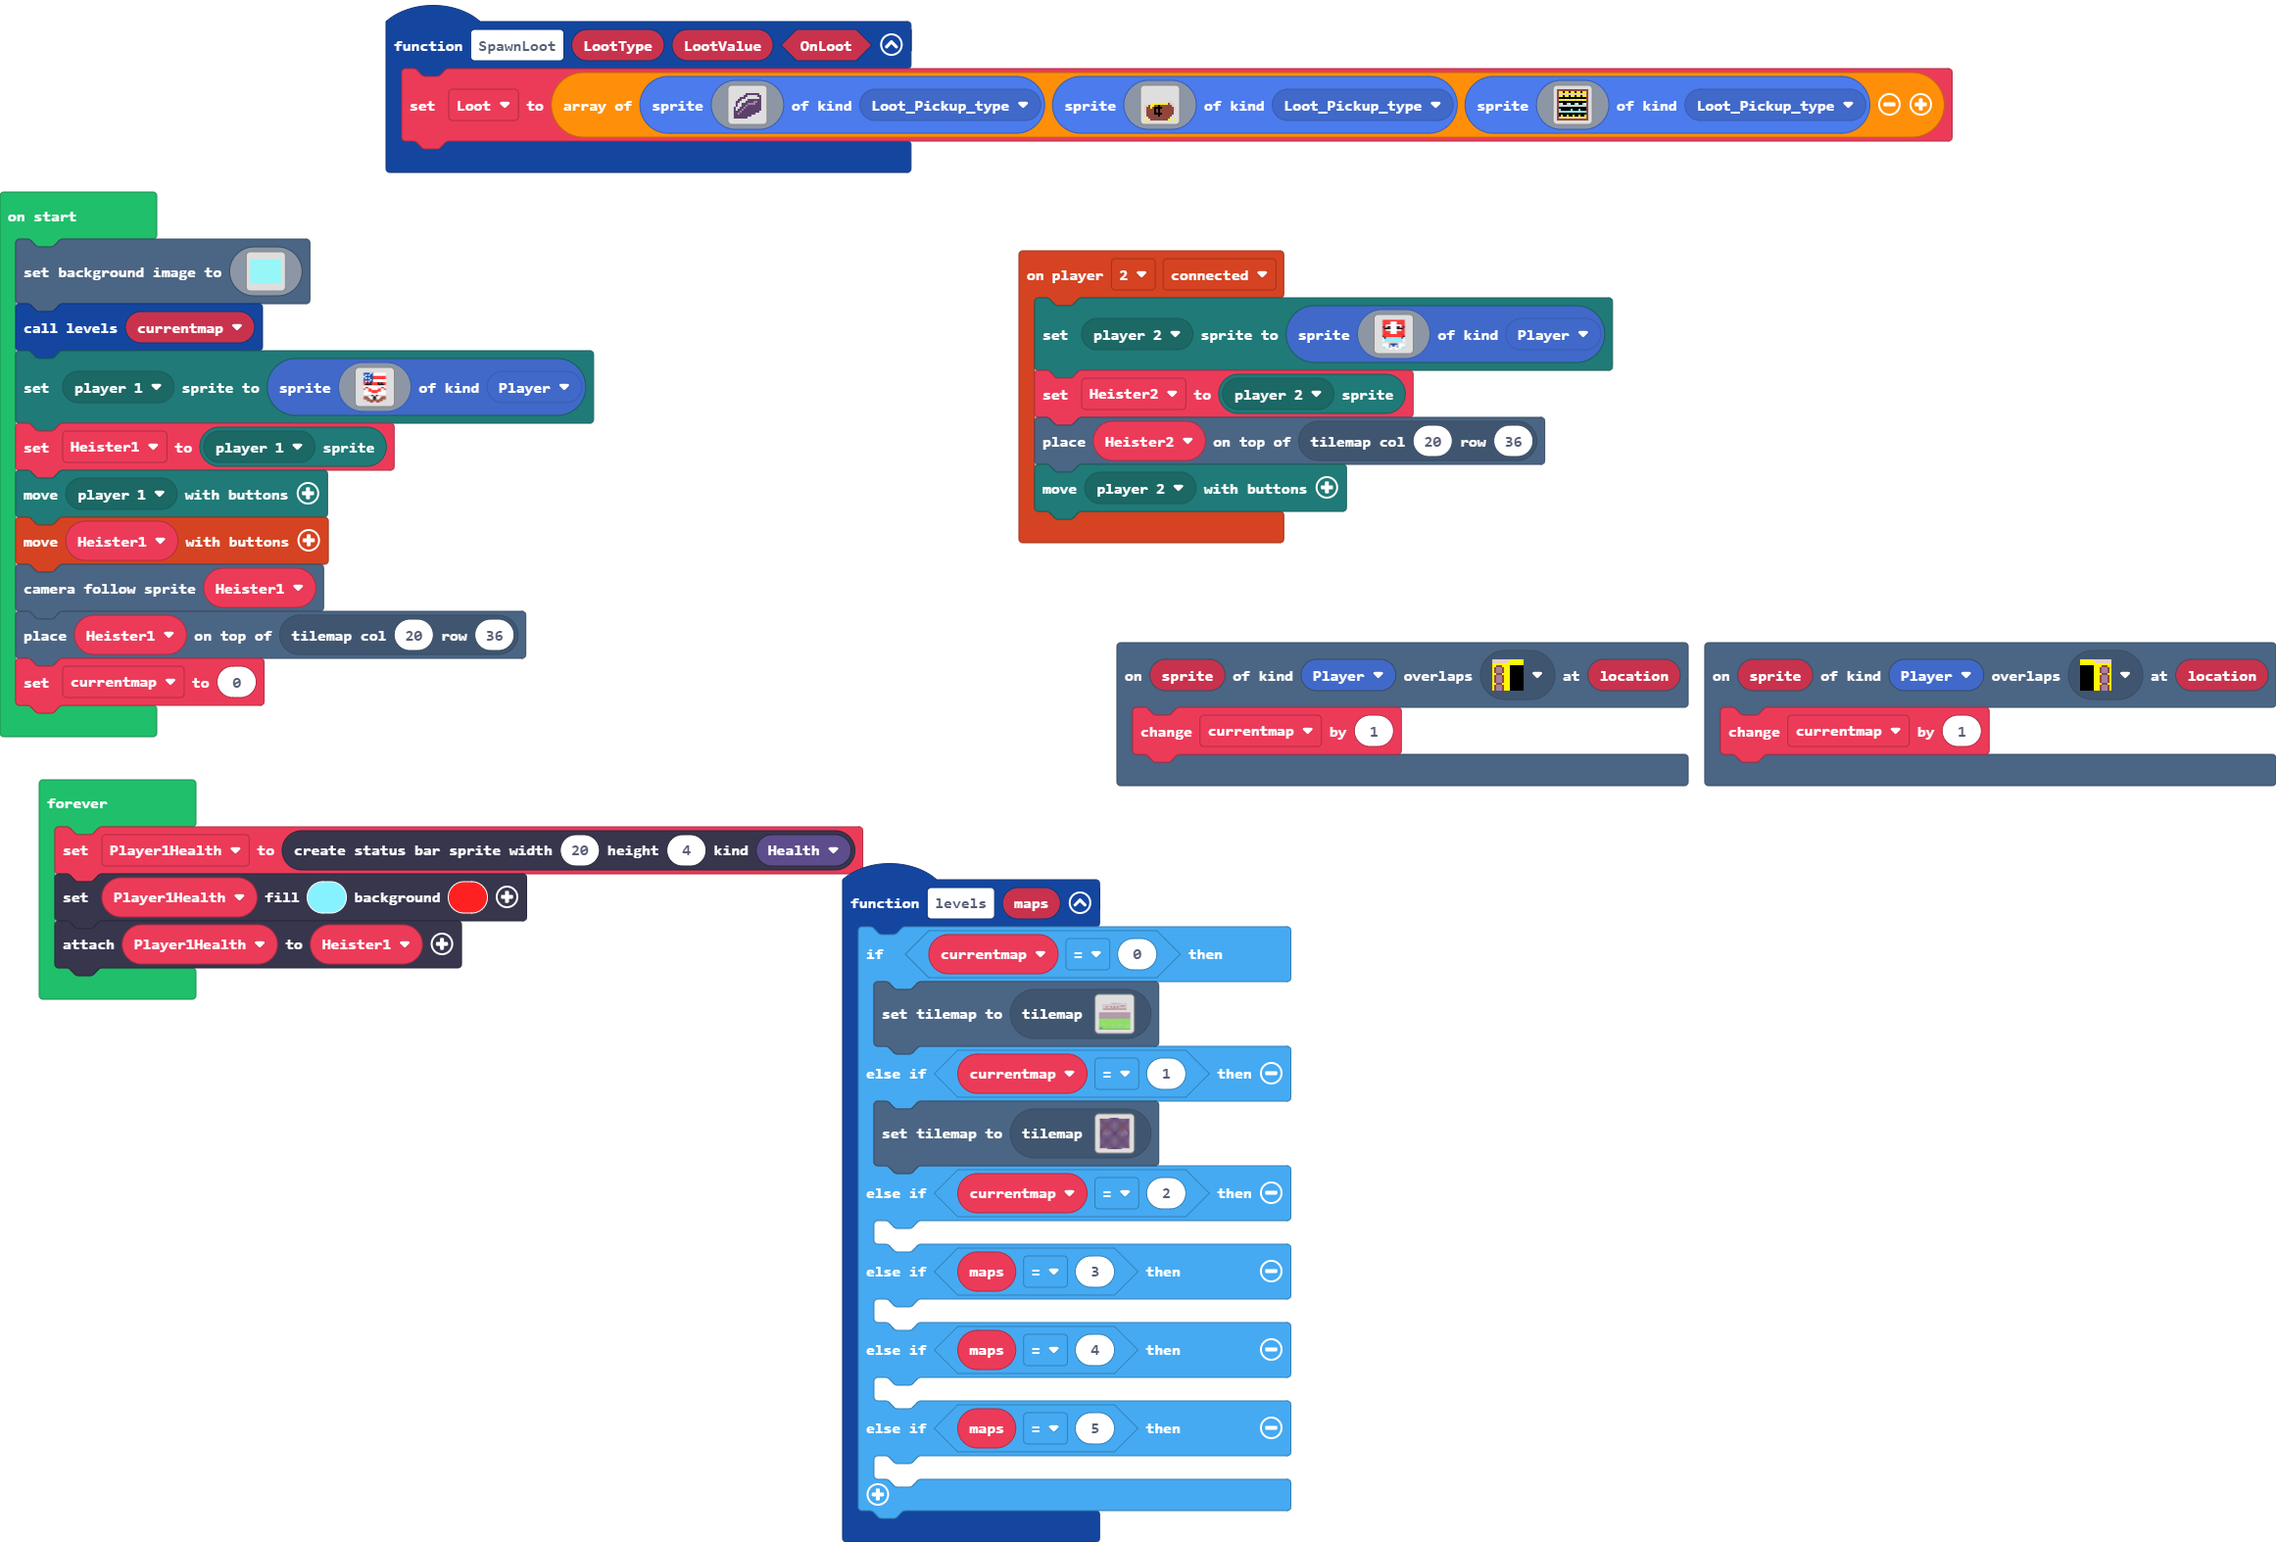
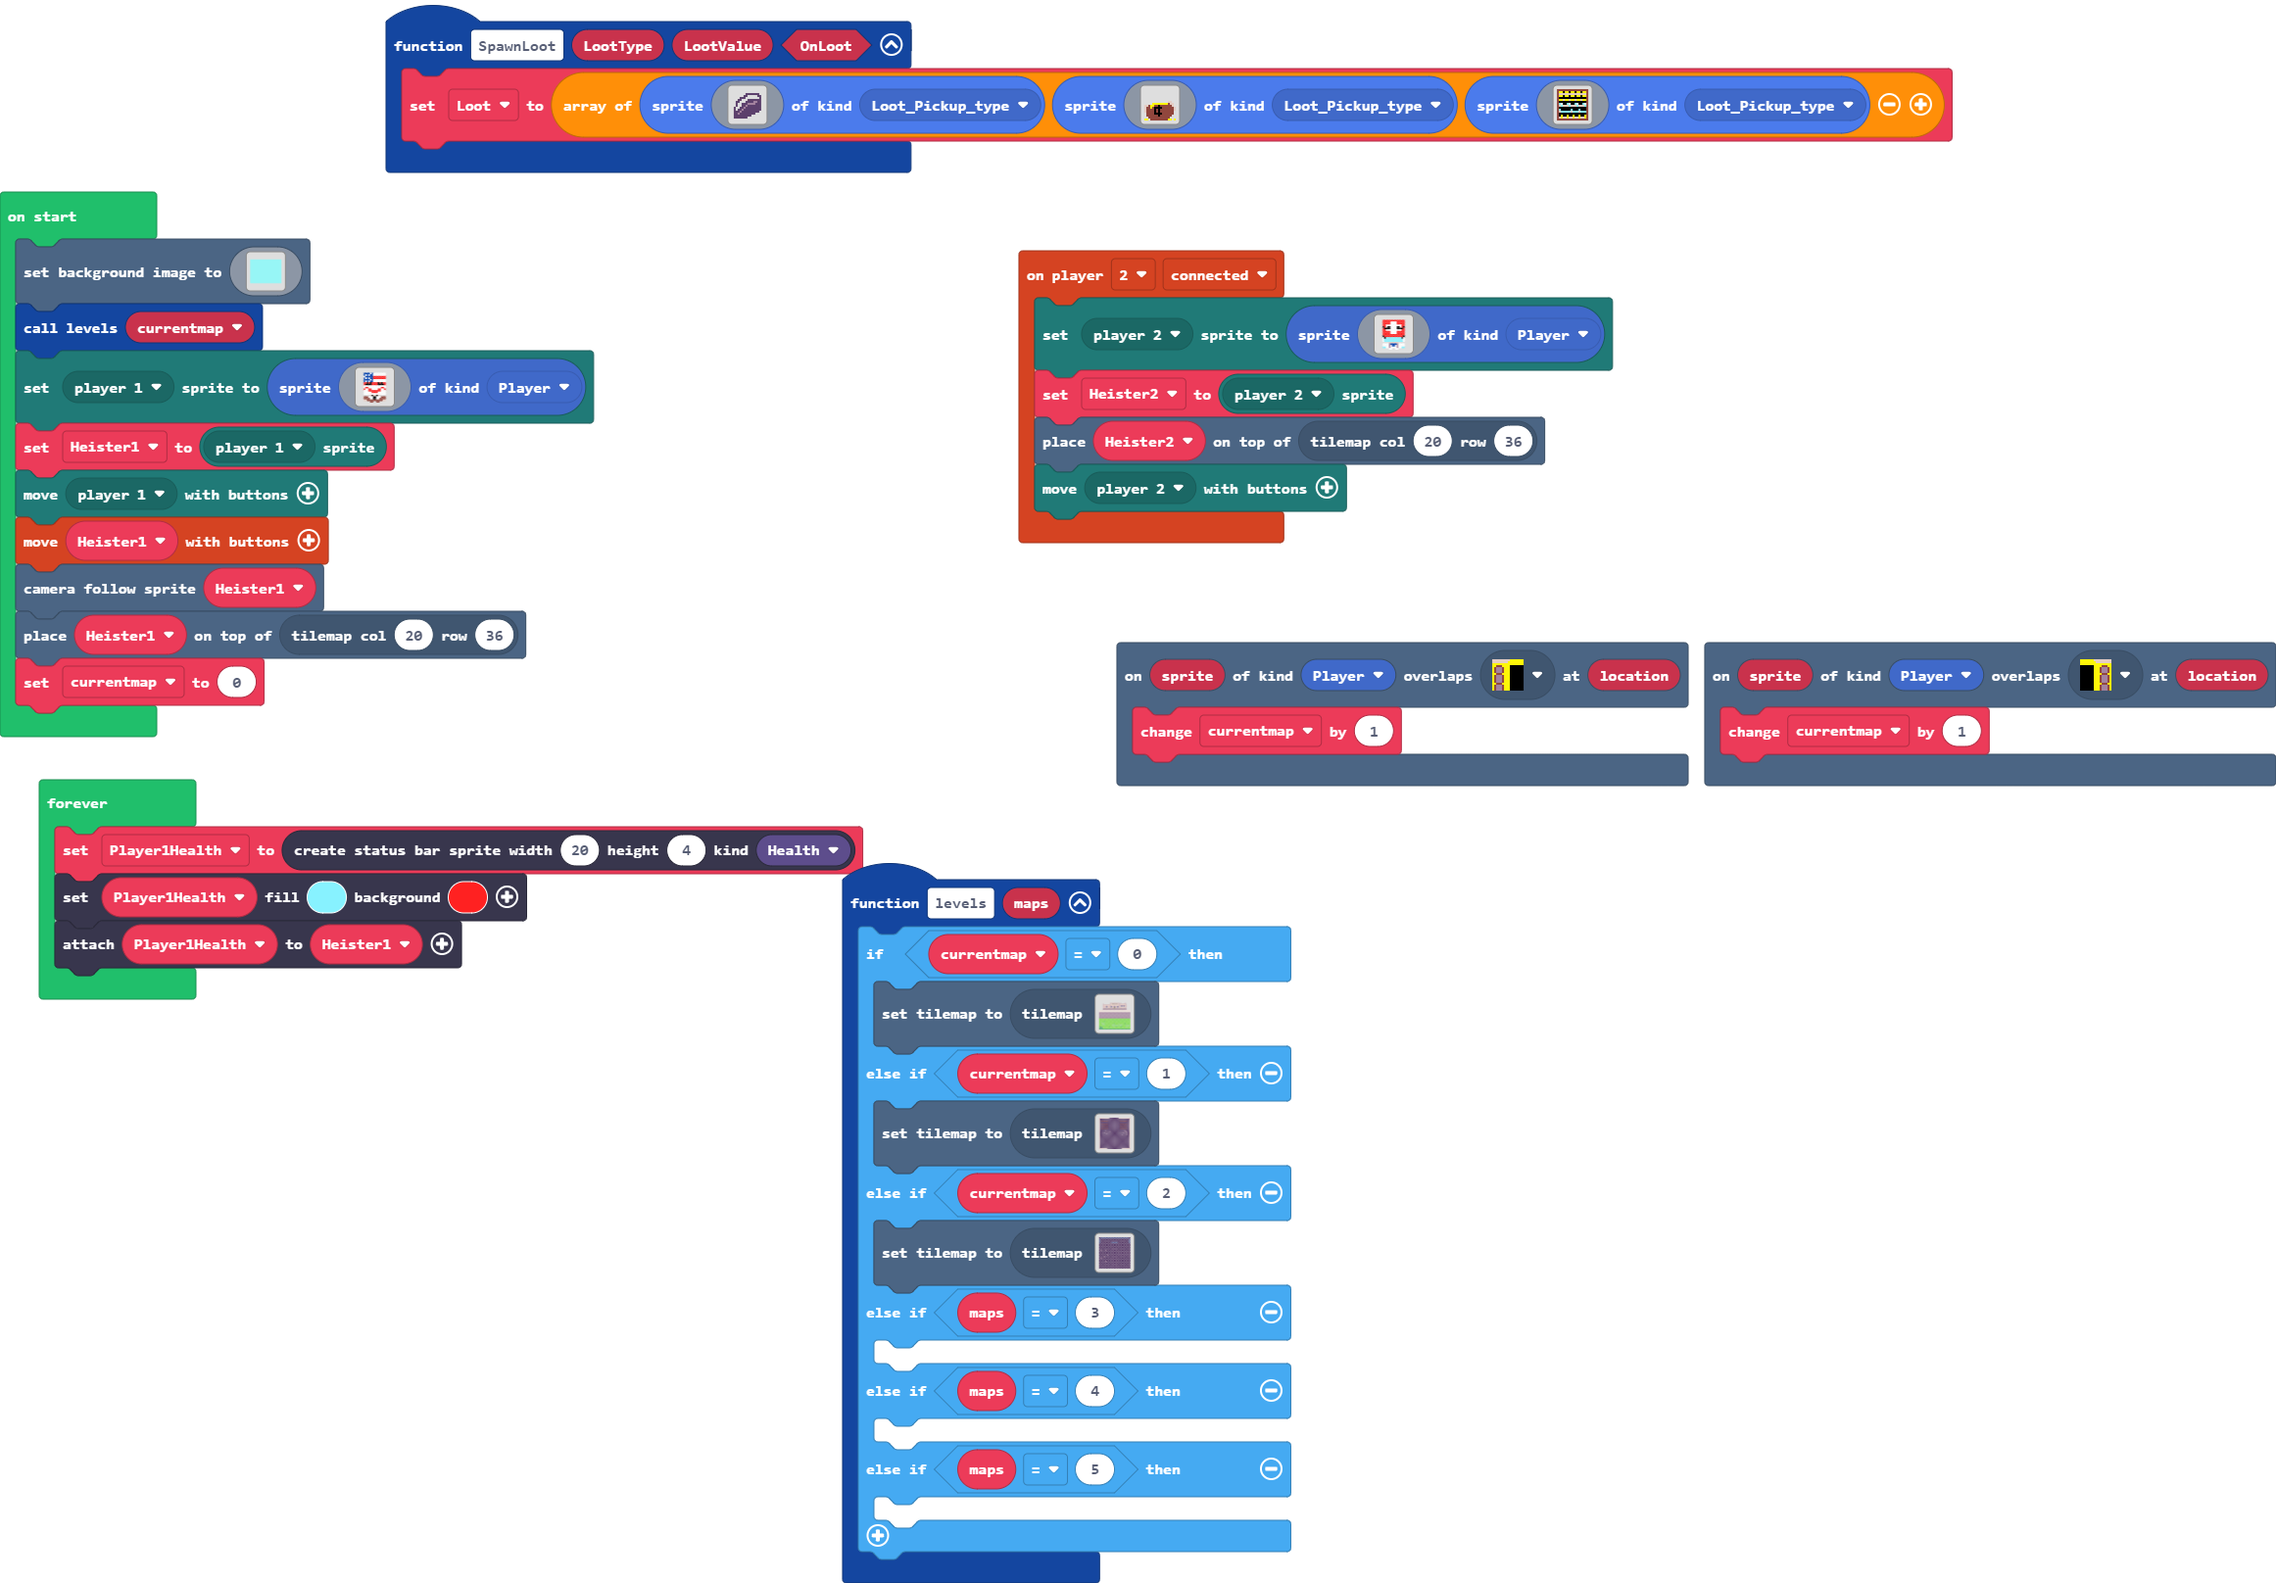
Update main.blocks, main.ts, tilemap.g.jres, tilemap.g.ts

diff --git a/tilemap.g.ts b/tilemap.g.ts
@@ -84,6 +84,8 @@ namespace myTiles {
     export const tile40 = image.ofBuffer(hex``);
     //% fixedInstance jres blockIdentity=images._tile
     export const tile41 = image.ofBuffer(hex``);
+    //% fixedInstance jres blockIdentity=images._tile
+    export const tile42 = image.ofBuffer(hex``);
 
     helpers._registerFactory("tilemap", function(name: string) {
         switch(helpers.stringTrim(name)) {
@@ -624,39 +626,6 @@ namespace myTiles {
 . . . . . . . . . . . . . . . . 
 . . . . . . . . . . . . . . . . 
 `, [myTiles.transparency16], TileScale.Sixteen);
-            case "bank_main_area":
[1 lines of base64/hex data omitted]
-2222222222.........22222222222
-2............................2
-2............................2
-2.2222222...........2222222..2
-2............................2
-2............................2
-2.2222222...........2222222..2
-2............................2
-2.2222222...........2222222..2
-2............................2
-2.2222222...........2222222..2
-2............................2
-2.....2.................22...2
-2......2..2..............22..2
-2....2.................2..2..2
-2......2..................2..2
-2.....................2.2.2..2
-2............................2
-2............................2
-2............................2
-2............................2
-2............................2
-2............................2
-2............................2
-2............................2
-2............................2
-2............................2
-2............................2
-2............................2
-22222222..............22222222
-`, [myTiles.transparency16,sprites.dungeon.darkGroundCenter,sprites.dungeon.darkGroundNorthWest0,sprites.dungeon.darkGroundSouth,sprites.dungeon.darkGroundSouthWest0,sprites.dungeon.darkGroundWest,sprites.dungeon.darkGroundEast,sprites.dungeon.darkGroundSouthEast0,sprites.dungeon.darkGroundNorthEast0,sprites.dungeon.darkGroundNorth,sprites.dungeon.floorLight0,myTiles.tile33,myTiles.tile34,myTiles.tile35,sprites.dungeon.floorDark3,myTiles.tile36,myTiles.tile37,sprites.dungeon.darkGroundSouthEast1,sprites.dungeon.darkGroundSouthWest1,myTiles.tile38,myTiles.tile41], TileScale.Sixteen);
             case "level28":
             case "level28":return tiles.createTilemap(hex`1000100000000000000000000000000000000000000000000000000000000000000000000000000000000000000000000000000000000000000000000000000000000000000000000000000000000000000000000000000000000000000000000000000000000000000000000000000000000000000000000000000000000000000000000000000000000000000000000000000000000000000000000000000000000000000000000000000000000000000000000000000000000000000000000000000000000000000000000000000000000000000000000000000000000000000000000000000000000000000000000000000000000000000000000000000000000000`, img`
 . . . . . . . . . . . . . . . . 
@@ -809,6 +778,62 @@ namespace myTiles {
 . . . . . . . . . . . . . . . . 
 . . . . . . . . . . . . . . . . 
 `, [myTiles.transparency16], TileScale.Sixteen);
+            case "ATM":
[1 lines of base64/hex data omitted]
+22222222222222222222
+2..................2
+2..................2
+2.......2222.......2
+....................
+....................
+....................
+....................
+.2..2...............
+....................
+....................
+.....2..............
+...2................
+.2..................
+....................
+....2...............
+....................
+....................
+....................
+....................
+`, [myTiles.transparency16,myTiles.tile42,myTiles.tile35,myTiles.tile38,sprites.dungeon.darkGroundEast,sprites.dungeon.darkGroundWest,sprites.dungeon.darkGroundCenter,sprites.dungeon.darkGroundNorth,sprites.dungeon.darkGroundNorthEast0,sprites.dungeon.darkGroundNorthWest0,sprites.dungeon.darkGroundSouth,sprites.dungeon.floorDark3], TileScale.Sixteen);
+            case "bank_main_area":
[1 lines of base64/hex data omitted]
+2222222222.........22222222222
+2............................2
+2............................2
+2.2222222...........2222222..2
+2............................2
+2............................2
+2.2222222...........2222222..2
+2............................2
+2.2222222...........2222222..2
+2............................2
+2.2222222...........2222222..2
+2............................2
+2.....2.................22...2
+2.........2..............22..2
+2....2.................2..2..2
+2......2..................2..2
+2.....................2.2.2..2
+2............................2
+2............................2
+2............................2
+2............................2
+2............................2
+2............................2
+2............................2
+2............................2
+2............................2
+2............................2
+2............................2
+2............................2
+22222222..............22222222
+`, [myTiles.transparency16,sprites.dungeon.darkGroundCenter,sprites.dungeon.darkGroundNorthWest0,sprites.dungeon.darkGroundSouth,sprites.dungeon.darkGroundSouthWest0,sprites.dungeon.darkGroundWest,sprites.dungeon.darkGroundEast,sprites.dungeon.darkGroundSouthEast0,sprites.dungeon.darkGroundNorthEast0,sprites.dungeon.darkGroundNorth,sprites.dungeon.floorLight0,myTiles.tile33,myTiles.tile34,myTiles.tile35,sprites.dungeon.floorDark3,myTiles.tile36,myTiles.tile37,sprites.dungeon.darkGroundSouthEast1,sprites.dungeon.darkGroundSouthWest1,myTiles.tile38,myTiles.tile41], TileScale.Sixteen);
         }
         return null;
     })
@@ -895,6 +920,8 @@ namespace myTiles {
             case "tile40":return tile40;
             case "endofmainarea":
             case "tile41":return tile41;
+            case "atm":
+            case "tile42":return tile42;
         }
         return null;
     })

diff --git a/main.ts b/main.ts
@@ -16,7 +16,7 @@ function levels (maps: number) {
     } else if (currentmap == 1) {
         tiles.setCurrentTilemap(tilemap`bank_main_area`)
     } else if (currentmap == 2) {
-    	
+        tiles.setCurrentTilemap(tilemap`ATM`)
     } else if (maps == 3) {
     	
     } else if (maps == 4) {
